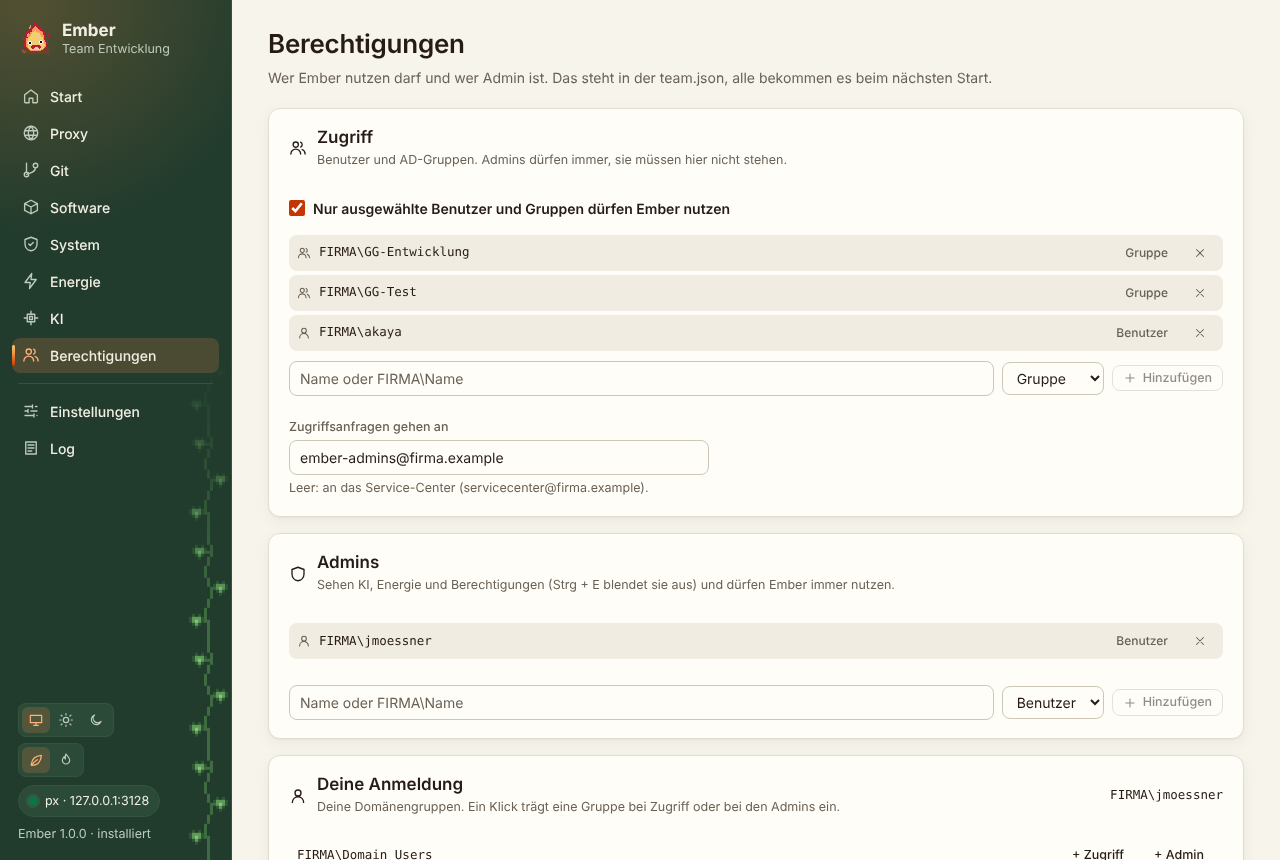
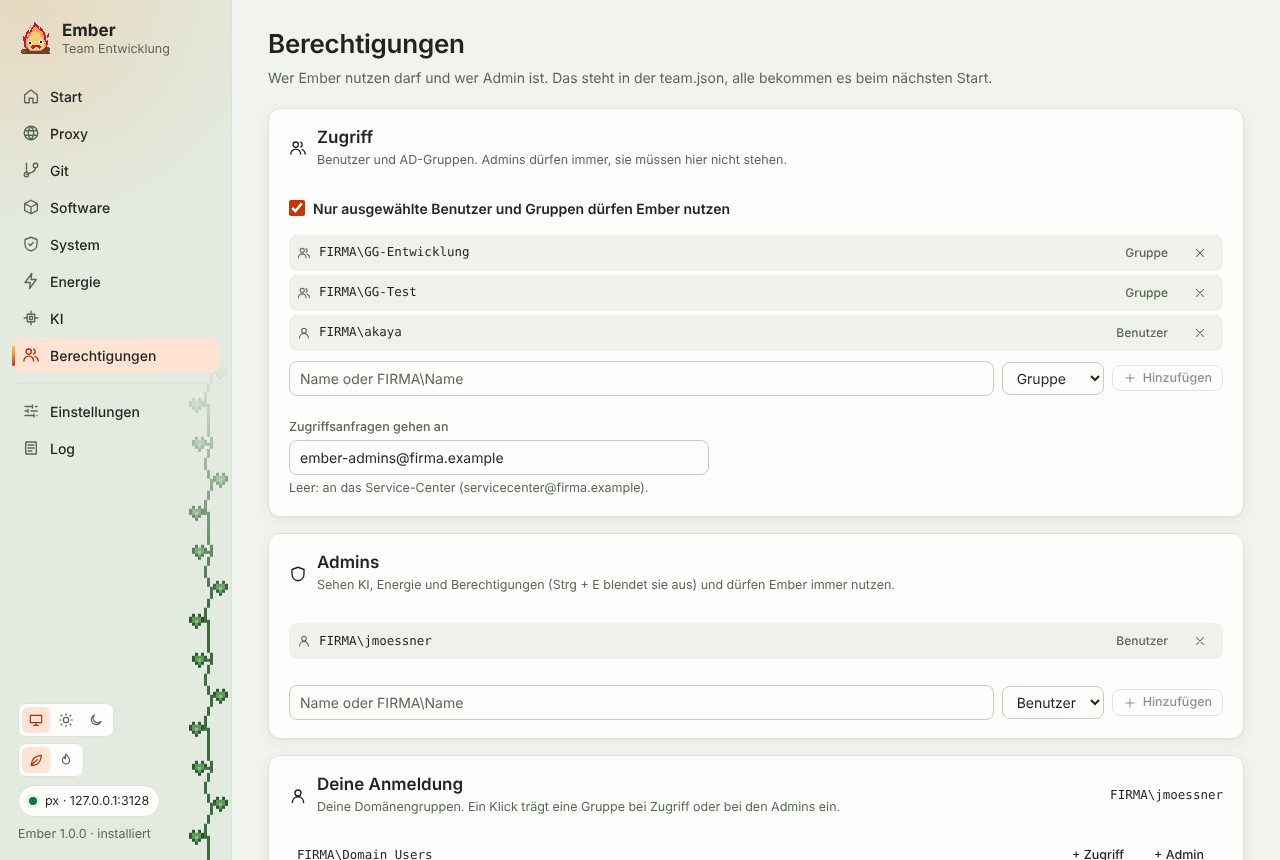
feat: Efeu hell mit Salbei-Grund
Am Tag hat Efeu jetzt den salbeigrünen Grund und eine helle Seitenleiste
mit Ranke. Das dunkle Design bleibt unverändert.

Claude-Session: https://claude.ai/code/session_01LUVJvU9LdERYGYo1PQwHTY

Changed region(s): [[0.0, 0.0, 0.1875, 1.0]]

diff --git a/ui/src/app.css b/ui/src/app.css
@@ -1,5 +1,5 @@
 /* Ember – warm, calm, readable, in Calcifer's colours.
-   Two designs (html[data-design]): "efeu" (default, ivy-green sidebar) and "glut" (rosy ember ground with ivy).
+   Two designs (html[data-design]): "efeu" (default, sage by day, ivy-green sidebar at night) and "glut" (rosy ember ground with ivy).
    Colour scheme: no class = follow Windows, .light / .dark = fixed. Every colour is light-dark(light, dark),
    so each design needs one set only; the used color-scheme picks the half. */
 :root {
@@ -35,32 +35,24 @@
 :root.light { color-scheme: light; }
 :root.dark { color-scheme: dark; }
 
-/* Efeu: warm paper and a deep ivy sidebar by day, forest charcoal at night. */
+/* Efeu: sage by day, forest charcoal with a deep ivy sidebar at night. */
 :root, :root[data-design='efeu'] {
-  --bg: light-dark(#f7f4ec, #121913);
-  --sidebar: light-dark(#213b2d, #12241a);
-  --surface: light-dark(#fffdf8, #1a241d);
-  --surface-2: light-dark(#f0ece1, #213027);
-  --border: light-dark(#e3ddcf, #2c3b31);
-  --border-strong: light-dark(#cfc7b5, #3d5044);
-  --text: light-dark(#271b16, #eef0e8);
-  --text-muted: light-dark(#6a6155, #a9b8aa);
+  --bg: light-dark(#f1f4ee, #121913);
+  --sidebar: light-dark(#e3eadf, #12241a);
+  --surface: light-dark(#fdfefc, #1a241d);
+  --surface-2: light-dark(#eef2ea, #213027);
+  --border: light-dark(#dbe3d5, #2c3b31);
+  --border-strong: light-dark(#c4cfbd, #3d5044);
+  --text: light-dark(#1f241f, #eef0e8);
+  --text-muted: light-dark(#5b6658, #a9b8aa);
   --accent-soft: light-dark(#ffe3d5, #3b2a1a);
   --ok: light-dark(#0b7643, #6cd092);
   --ok-soft: light-dark(#ddf6e4, #173221);
-  --hearth: light-dark(rgb(243 147 64 / 0.24), rgb(244 134 69 / 0.15));
+  --hearth: light-dark(rgb(243 147 64 / 0.2), rgb(244 134 69 / 0.15));
 }
-/* The sidebar is dark in both schemes: its own text and control colours. */
+/* At night the dark sidebar keeps its slightly warmer text. */
 :root[data-design='efeu'] aside.sidebar, :root:not([data-design]) aside.sidebar {
-  --text: #f2eee3;
-  --text-muted: light-dark(#bccbbb, #a9b8aa);
-  --border: light-dark(#33533f, #2c3b31);
-  --surface: light-dark(#2b4a38, #1a241d);
-  --accent: #f48645;
-  --accent-soft: light-dark(rgb(244 134 69 / 0.2), #3b2a1a);
-  --accent-fg: light-dark(#ffb27a, #ffa661);
-  --border-strong: light-dark(#4a6b57, #3d5044);
-  --ok-soft: light-dark(#2f5c43, #173221);
+  --text: light-dark(#1f241f, #f2eee3);
   color: var(--text);
 }
 

diff --git a/src/Ember.App/MainWindow.cs b/src/Ember.App/MainWindow.cs
@@ -277,7 +277,7 @@ public sealed class MainWindow : Window, IHostShell
             (true, true) => Color.FromRgb(0x1c, 0x10, 0x11),
             (true, false) => Color.FromRgb(0x12, 0x19, 0x13),
             (false, true) => Color.FromRgb(0xfb, 0xf0, 0xec),
-            _ => Color.FromRgb(0xf7, 0xf4, 0xec),
+            _ => Color.FromRgb(0xf1, 0xf4, 0xee),
         };
         Background = new SolidColorBrush(c);
         _web.DefaultBackgroundColor = System.Drawing.Color.FromArgb(c.R, c.G, c.B);

diff --git a/docs/src/content/docs/handbuch/einstellungen.md b/docs/src/content/docs/handbuch/einstellungen.md
@@ -41,6 +41,6 @@ Wählst du die Sprache, die auch Windows hat, folgt Ember weiter der Windows-Ein
 
 ## Darstellung
 
-Ember hat zwei Designs. **Efeu** hat eine dunkelgrüne Seitenleiste, an der Efeu hochrankt, und glutrote Akzente. **Glut** ist wärmer: rosiger Grund am Tag, verkohltes Ochsenblut bei Nacht, Moosgrün für „erledigt“. Beide gibt es hell und dunkel, „System“ folgt der Windows-Einstellung, auch während Ember läuft.
+Ember hat zwei Designs. **Efeu** ist am Tag hell und salbeigrün, nachts waldgrün mit dunkelgrüner Seitenleiste. An der Seitenleiste rankt Efeu hoch, die Akzente sind glutrot. **Glut** ist wärmer: rosiger Grund am Tag, verkohltes Ochsenblut bei Nacht, Moosgrün für „erledigt“. Beide gibt es hell und dunkel, „System“ folgt der Windows-Einstellung, auch während Ember läuft.
 
 Beim Umschalten wächst das neue Aussehen als Kreis aus dem gedrückten Schalter. Wer unter Windows „Animationseffekte“ abgeschaltet hat, bekommt den Wechsel ohne Animation. Die Wahl merkt sich Ember in `settings.json`, auch die Titelleiste des Fensters passt sich an.
